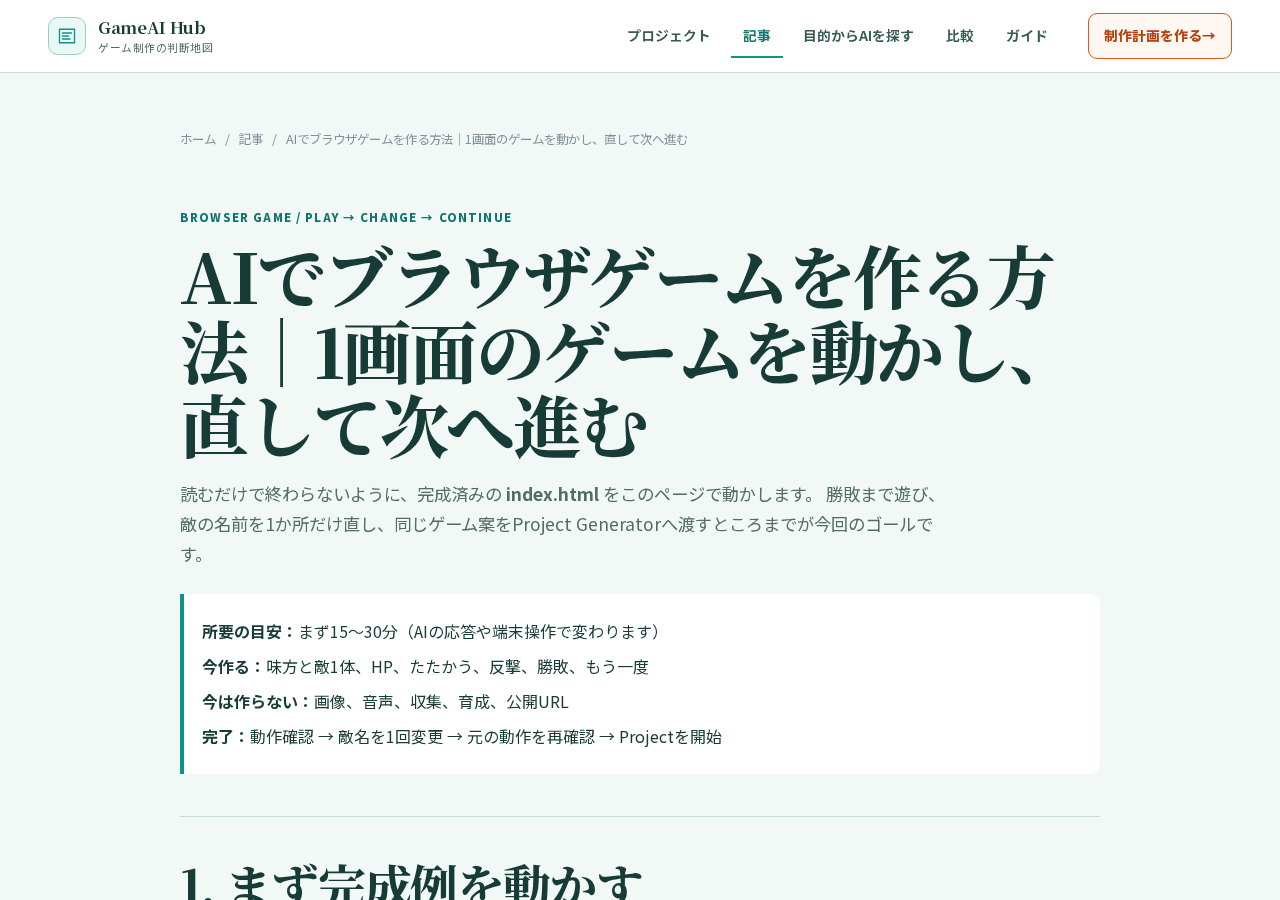
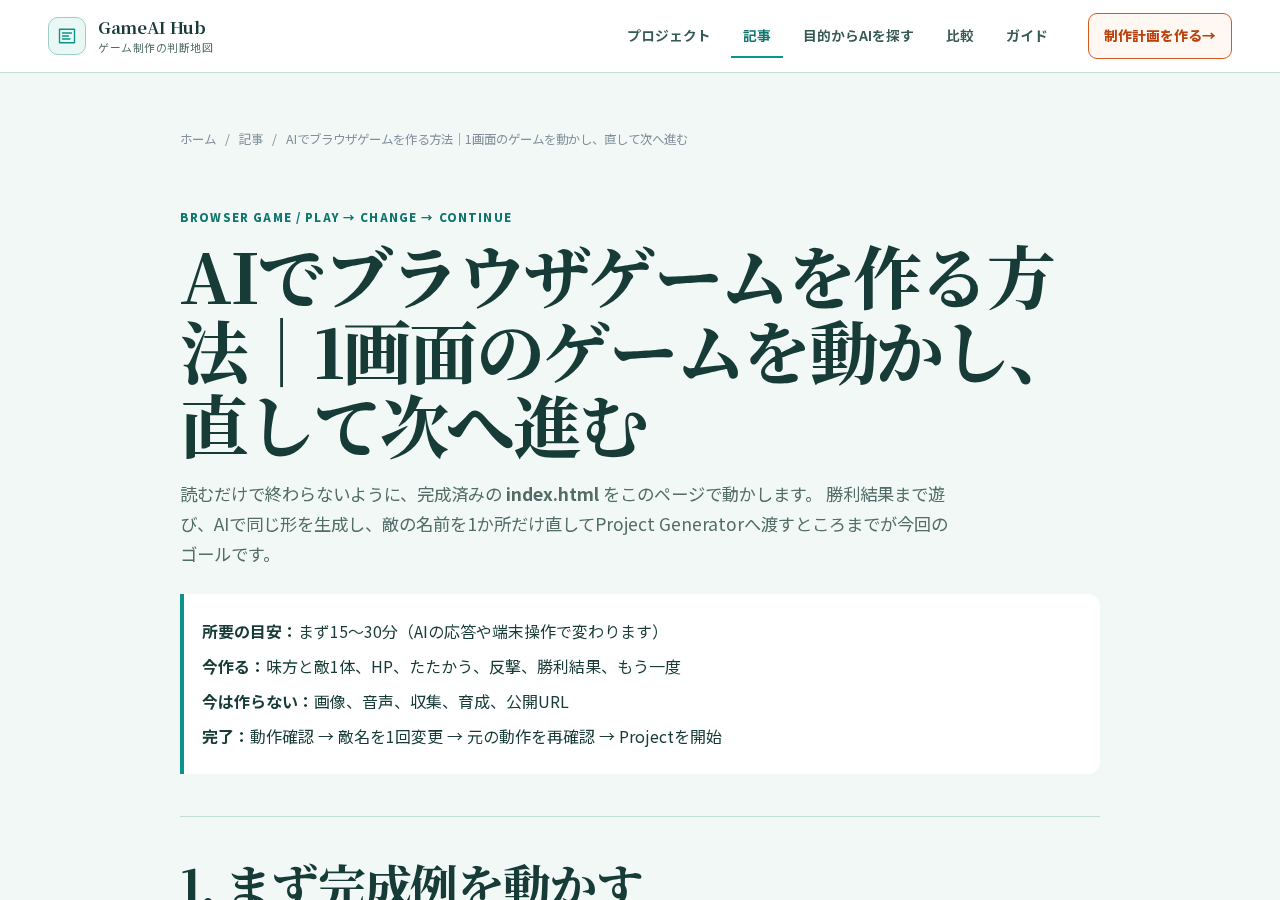
fix: restore browser game generation workflow

Changed region(s): [[0.125, 0.5289, 0.75, 0.6222], [0.4375, 0.7156, 0.5312, 0.7467]]

diff --git a/app/articles/ai-browser-game-how-to/page.tsx b/app/articles/ai-browser-game-how-to/page.tsx
@@ -10,7 +10,23 @@ export const metadata: Metadata = articleMetadata(article);
 
 const gameIdea = `モンスターと1対1で戦う2Dブラウザゲームを作りたい。
 ゲーム制作は初めてです。まず画像と音声なしで、
-たたかう・勝敗・もう一度を1画面に作りたい。`;
+たたかう・HP変化・勝利結果・もう一度を1画面に作りたい。`;
+
+const firstGenerationPrompt = `ゲーム制作初心者向けに、2Dブラウザゲームを作ってください。
+
+要件:
+- HTML、CSS、JavaScriptを1つのindex.htmlにまとめる
+- 外部ライブラリ、外部ファイル、画像、外部ネットワーク通信を使わない
+- ブラウザの1画面に、味方1体と敵1体、それぞれの名前とHPを表示する
+- 「たたかう」ボタンを押すと敵HPが減り、敵が倒れていなければ反撃で味方HPも減る
+- 敵HPが0になったら勝利結果を文字で表示し、それ以降「たたかう」を押せなくする
+- 「もう一度」ボタンでHP、結果、ボタンを初期状態へ戻す
+- スマートフォン幅でも読める簡単な見た目にする
+
+返答形式:
+- 初心者がそのまま保存・貼り付けできる、動作するindex.htmlのコード全文を省略せず返す
+- Markdownの説明文とコードを混ぜず、説明はコード枠の前に短く置く
+- HTML全文は1つのhtmlコード枠に明確に分離する`;
 
 const starterGame = `<!doctype html>
 <html lang="ja">
@@ -59,10 +75,6 @@ const starterGame = `<!doctype html>
       } else {
         playerHp = Math.max(0, playerHp - 4);
         message.textContent = enemyName + "が反撃した！";
-        if (playerHp === 0) {
-          message.textContent = "負けた。もう一度ためそう";
-          fight.disabled = true;
-        }
       }
       draw();
     });
@@ -78,7 +90,7 @@ const starterGame = `<!doctype html>
 </body>
 </html>`;
 
-const changePrompt = `次のindex.htmlは、たたかう・反撃・勝敗・もう一度まで動いています。
+const changePrompt = `次のindex.htmlは、たたかう・反撃・勝利結果・もう一度まで動いています。
 この動作を残したまま、敵の名前だけを「スライム」から「炎スライム」へ変えてください。
 変更した行を先に説明し、その後に省略なしのHTML全文を1つのコード枠で返してください。
 画像、音声、別ファイル、追加機能は加えないでください。`;
@@ -92,11 +104,11 @@ export default function AiBrowserGameHowTo() {
           <h1>AIでブラウザゲームを作る方法｜1画面のゲームを動かし、直して次へ進む</h1>
           <p className="lead">
             読むだけで終わらないように、完成済みの <strong>index.html</strong> をこのページで動かします。
-            勝敗まで遊び、敵の名前を1か所だけ直し、同じゲーム案をProject Generatorへ渡すところまでが今回のゴールです。
+            勝利結果まで遊び、AIで同じ形を生成し、敵の名前を1か所だけ直してProject Generatorへ渡すところまでが今回のゴールです。
           </p>
           <div className="article-contract">
             <p><strong>所要の目安：</strong>まず15〜30分（AIの応答や端末操作で変わります）</p>
-            <p><strong>今作る：</strong>味方と敵1体、HP、たたかう、反撃、勝敗、もう一度</p>
+            <p><strong>今作る：</strong>味方と敵1体、HP、たたかう、反撃、勝利結果、もう一度</p>
             <p><strong>今は作らない：</strong>画像、音声、収集、育成、公開URL</p>
             <p><strong>完了：</strong>動作確認 → 敵名を1回変更 → 元の動作を再確認 → Projectを開始</p>
           </div>
@@ -116,7 +128,7 @@ export default function AiBrowserGameHowTo() {
           <ol>
             <li>最初に「ゆうしゃ HP: 24」「スライム HP: 18」が見える。</li>
             <li>「たたかう」1回で敵HPが18→12、味方HPが24→20になる。</li>
-            <li>合計3回押すと敵HPが0になり、「スライムに勝った！」と出る。</li>
+            <li>合計3回押すと敵HPが0になり、勝利結果「スライムに勝った！」が出る。</li>
             <li>勝った後は「たたかう」を押せない。</li>
             <li>「もう一度」で双方のHPとメッセージが最初に戻る。</li>
           </ol>
@@ -124,12 +136,12 @@ export default function AiBrowserGameHowTo() {
         </section>
 
         <section>
-          <h2>2. 完成形の中身を短く読む</h2>
+          <h2>2. 3つの途中地点で完成形を読む</h2>
           <p>この1ファイルにも役割は3つあります。全部を暗記する必要はありません。</p>
           <dl className="article-lesson-grid">
             <div><dt>HTML</dt><dd>見出し、HP、メッセージ、2つのボタンを置く。</dd></div>
             <div><dt>CSS</dt><dd>1画面に収まるカードと、押せるボタンの見た目を作る。</dd></div>
-            <div><dt>JavaScript</dt><dd>クリックでHPを変え、勝敗で止め、「もう一度」で戻す。</dd></div>
+            <div><dt>JavaScript</dt><dd>クリックでHPを変え、勝利結果で止め、「もう一度」で戻す。</dd></div>
           </dl>
           <p>
             途中版は「画面が見えるだけ」です。完成例との差は、ボタンを押した後の処理です。
@@ -141,10 +153,31 @@ export default function AiBrowserGameHowTo() {
 <p>スライム HP: 18</p>
 <button>たたかう</button>
 <button>もう一度</button>`}</code></pre>
+          <ol className="article-checkpoints">
+            <li><strong>Step A — 表示：</strong>味方・敵の名前、HP、ボタンが1画面に見える。</li>
+            <li><strong>Step B — HP変化：</strong>「たたかう」で敵HPが減り、敵の反撃で味方HPも減る。</li>
+            <li><strong>Step C — 結果＋もう一度：</strong>敵HPが0で勝利結果が出て停止し、初期状態へ戻せる。</li>
+          </ol>
+          <p>AIの出力もA→B→Cの順で確認します。Aが崩れているのにCまでまとめて直そうとせず、最初に失敗した地点を伝えます。</p>
         </section>
 
         <section>
-          <h2>3. 変更は敵の名前1か所だけ</h2>
+          <h2>3. 最初のゲームをAIへ生成してもらう</h2>
+          <p>
+            完成形と途中地点を理解したら、次の指示をそのままAIへ送ります。これは特定サービスだけの機能を前提にせず、返答形式と確認可能な動作を固定する指示です。
+          </p>
+          <pre className="article-code"><code>{firstGenerationPrompt}</code></pre>
+          <CopyTextButton label="最初のゲーム生成promptをコピー" text={firstGenerationPrompt} />
+          <ol>
+            <li>AIの返答から、<code>&lt;!doctype html&gt;</code> で始まり <code>&lt;/html&gt;</code> で終わるコード全文だけをコピーする。</li>
+            <li>上の「ゲームのコード」をAIのコード全文で置き換え、「ゲームを表示」を押す。</li>
+            <li>Step A、B、Cを順番に確認する。AIが「完成」と書いても、実際に操作できるまでは完了にしない。</li>
+          </ol>
+          <p>出力が要件と違う場合は、掲載完成例で動作を確認できる状態を残したまま、最初に失敗したStepと実際の表示をAIへ返します。</p>
+        </section>
+
+        <section>
+          <h2>4. 変更は敵の名前1か所だけ</h2>
           <p>
             上の「ゲームのコード」で <code>const enemyName = &quot;スライム&quot;;</code> を探し、
             <code>const enemyName = &quot;炎スライム&quot;;</code> に直します。他の行は変えず、「ゲームを表示」をもう一度押します。
@@ -161,17 +194,17 @@ export default function AiBrowserGameHowTo() {
         </section>
 
         <section>
-          <h2>4. 同じ変更をAIへ頼むなら、守る動作も渡す</h2>
+          <h2>5. 同じ変更をAIへ頼むなら、守る動作も渡す</h2>
           <p>手で直せた1変更をAIへ頼む場合は、現在のHTML全文に次の指示を添えます。AIが返した説明ではなく、HTML全文を上の欄へ貼って再実行してください。</p>
           <pre className="article-code"><code>{changePrompt}</code></pre>
           <CopyTextButton label="1変更のAI指示をコピー" text={changePrompt} />
           <p>
-            AIが画像や別ファイルを加えた、コードを途中で省略した、元の勝敗が消えた場合は採用しません。「動いた版へ戻す」で復旧し、現在のコード全文と失敗した結果を添えて同じ1変更を頼み直します。
+            AIが画像や別ファイルを加えた、コードを途中で省略した、元のHP変化や勝利結果が消えた場合は採用しません。「動いた版へ戻す」で復旧し、現在のコード全文と失敗した結果を添えて同じ1変更を頼み直します。
           </p>
         </section>
 
         <section>
-          <h2>5. 動かないときは症状から1つ戻る</h2>
+          <h2>6. 動かないときは症状から1つ戻る</h2>
           <ul>
             <li><strong>ゲームを表示できない：</strong>コードの先頭が <code>&lt;!doctype html&gt;</code>、末尾が <code>&lt;/html&gt;</code> か確認する。説明文や <code>```</code> は除く。</li>
             <li><strong>白い画面／ボタンが反応しない：</strong>表示枠の下にエラーが出たら内容をコピーする。PCならConsoleの最初の赤いエラーと行番号も使える。</li>
@@ -183,10 +216,10 @@ export default function AiBrowserGameHowTo() {
 
         <section className="article-inline-handoff">
           <p className="eyebrow">CONTINUE THE SAME GAME</p>
-          <h2>6. 動いたゲームを、Projectの最初の作業へつなぐ</h2>
+          <h2>7. 動いたゲームを、Projectの最初の作業へつなぐ</h2>
           <p>
             ここで作ったのは共通の練習例です。次は、自分のゲーム条件を固定します。下の案をコピーしてProject Generatorを開き、入力欄へ貼ってください。
-            Project側でも「1対1」「ブラウザ」「たたかう・勝敗・もう一度」が残っていることを確認してから生成します。
+            Project側でも「1対1」「ブラウザ」「たたかう・勝利結果・もう一度」が残っていることを確認してから生成します。
           </p>
           <pre className="article-code"><code>{gameIdea}</code></pre>
           <CopyTextButton label="Project用のゲーム案をコピー" text={gameIdea} />

diff --git a/app/globals.css b/app/globals.css
@@ -431,6 +431,7 @@ article.page-shell .stage-decision>summary strong{
 .article-shell,.article-content,.article-content>*{min-width:0;max-width:100%}.article-content ol,.article-content ul{padding-inline-start:1.4em}
 .article-contract{margin-top:24px;padding:16px 18px;border-left:4px solid var(--accent);background:var(--panel);border-radius:0 12px 12px 0}.article-contract p{margin:.45rem 0}.article-code{white-space:pre-wrap;overflow-wrap:anywhere;padding:18px;border:1px solid var(--line);border-radius:12px;background:#101b26;color:#eef8f5;line-height:1.8;overflow-x:auto}
 .article-lesson-grid{display:grid;grid-template-columns:repeat(3,minmax(0,1fr));gap:12px}.article-lesson-grid div{padding:16px;border:1px solid var(--line);border-radius:12px;background:var(--panel)}.article-lesson-grid dt{color:var(--accent);font-weight:850}.article-lesson-grid dd{margin-top:8px;color:var(--muted)}.article-inline-handoff{margin:30px 0;padding:34px!important;border:1px solid #315045;border-radius:22px;background:linear-gradient(135deg,rgba(143,240,199,.1),rgba(143,199,255,.04))}
+.article-checkpoints{display:grid;gap:10px;margin-block:22px}.article-checkpoints li{padding:13px 15px;border-left:3px solid var(--accent);background:var(--panel)}
 @media(max-width:640px){.article-lesson-grid{grid-template-columns:1fr}.article-inline-handoff{padding:24px 16px!important}}
 @media(max-width:200px){main{padding-inline:8px}.article-shell>.breadcrumbs{font-size:.7rem}.article-content>section{padding-block:26px}.article-content>section h2{font-size:1.35rem}.article-content>section h3{font-size:1.05rem}.article-content ol,.article-content ul{padding-inline-start:1.1em}}
 @media(max-width:200px){.article-content .page-head h1{font-size:1.75rem;line-height:1.18}.article-content .page-head .lead{font-size:1rem}}

diff --git a/data/articles.ts b/data/articles.ts
@@ -151,7 +151,7 @@ export const articles = [
     title:
       "AIでブラウザゲームを作る方法｜1画面のゲームを動かし、直して次へ進む",
     description:
-      "初心者が完成済みの1画面ブラウザゲームをその場で動かし、敵名を1回変更して再確認し、同じゲームをProject Generatorへつなぐ実践手順。",
+      "初心者が完成済みの1画面ブラウザゲームを動かし、生成promptでAIからindex.html全文を得て、敵名を1回変更してProject Generatorへつなぐ実践手順。",
     category: "beginner",
     tags: ["AIゲーム開発", "ブラウザゲーム", "初心者", "HTML"],
     publishedAt: "2026-09-04",
@@ -160,7 +160,7 @@ export const articles = [
     lastVerifiedAt: "2026-09-07",
     author: "GameAI Hub編集部",
     editorialNote:
-      "掲載HTMLで、貼付・実行・勝敗・リセット・1変更・復旧を確認できる初心者向け手順です。Project Generatorの条件保持は検証済みですが、外部AIの出力は毎回同一とは限りません。",
+      "掲載HTMLで、貼付・実行・勝利結果・リセット・1変更・復旧を確認できる初心者向け手順です。Project Generatorの条件保持は検証済みですが、外部AIの出力は毎回同一とは限りません。",
     sources: [
       {
         label: "MDN: HTML basics",

diff --git a/e2e/content-seo.spec.ts b/e2e/content-seo.spec.ts
@@ -12,6 +12,11 @@ for(const viewport of [{name:'mobile-375',width:375,height:812},{name:'zoom-320'
   await expect(page.locator('script[type="application/ld+json"]')).toHaveCount(2);
   await expect(page.getByRole('heading',{name:'まず完成例を動かす'})).toBeVisible();
   await expect(page.getByLabel('ゲームのコード')).toContainText('const enemyName = "スライム"');
+  await expect(page.getByRole('heading',{name:'最初のゲームをAIへ生成してもらう'})).toBeVisible();
+  await expect(page.getByRole('button',{name:'最初のゲーム生成promptをコピー'})).toBeVisible();
+  await expect(page.getByText('Step A — 表示：')).toBeVisible();
+  await expect(page.getByText('Step B — HP変化：')).toBeVisible();
+  await expect(page.getByText('Step C — 結果＋もう一度：')).toBeVisible();
   await expect(page.getByRole('heading',{name:'変更は敵の名前1か所だけ'})).toBeVisible();
   await expect(page.getByRole('heading',{name:'動かないときは症状から1つ戻る'})).toBeVisible();
   await expect(page.getByRole('link',{name:'同じゲームの制作ロードマップを作る'})).toHaveAttribute('href',/\/project\/?\?source=ai-browser-game-how-to/);

diff --git a/docs/codex-progress/issue-58-browser-article.md b/docs/codex-progress/issue-58-browser-article.md
@@ -2,12 +2,12 @@
 
 - Task: Issue #58, existing browser-game article phase only
 - Working branch: `feat/issue-58-browser-article-upgrade`
-- Latest pushed checkpoint: `e2d31dc` (playable article workflow)
-- Completed phases: bootstrap; origin/main verification; Issue/instruction/current implementation review; implementation; targeted tests; responsive screenshot capture
+- Latest pushed checkpoint: `0103289` (initial PR delivery state); blocker-fix commit pending
+- Completed phases: bootstrap; origin/main verification; Issue/instruction/current implementation review; initial implementation; independent blocker intake; first-generation prompt/result terminology/checkpoint fixes; responsive screenshot recapture; required gates
 - Current phase: PR review
 - Remaining phases: independent content/mobile review; Preview/CI; owner-authorized merge and Production acceptance
-- Unresolved P0/P1/high-impact P2: none found in implementation and rendered self-review; independent acceptance remains unavailable in this single-agent environment
-- Quality/build/E2E: quality passed (235 tests); targeted final tests passed (12 tests); lint/typecheck passed after the final inline-CTA change; final build passed; targeted article E2E passed (4 tests)
+- Unresolved P0/P1/high-impact P2: reported missing first-generation prompt and inaccurate win/loss terminology are fixed; independent re-review pending
+- Quality/build/E2E: quality passed (236 tests) after one transient unrelated test timeout passed on isolated rerun and full quality rerun; build passed; full E2E passed (41 tests)
 - GitHub/PR/deployment: PR #61 open; Preview/CI pending
 - Blockers: none
 - Next action: obtain independent review of PR #61 and fix any P0/P1/high-impact P2 before merge
